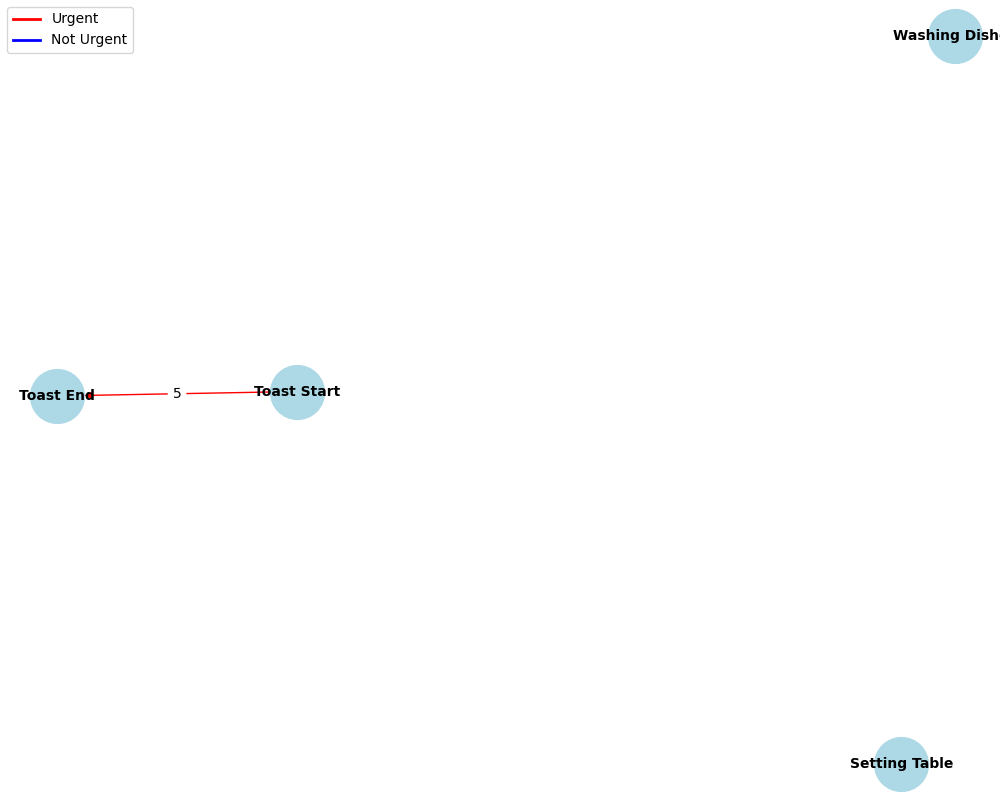
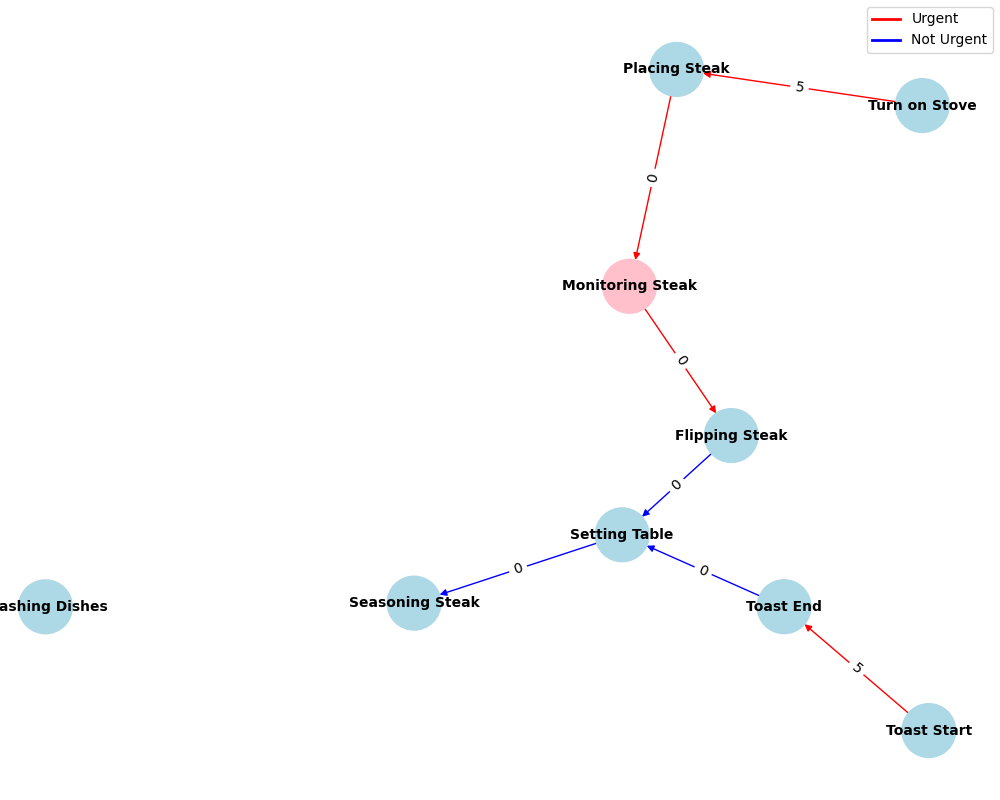
Random Tree 만들기 전 커밋

diff --git a/util/visualizer.py b/util/visualizer.py
@@ -11,7 +11,12 @@ def visualize_graph(G):
     pos = nx.spring_layout(G, k=0.5)  # k 값 조정
     plt.figure(figsize=(10, 8))  # fig 크기 조정
     edge_labels = {(u, v): f"{d['info']['Interval']}" for u, v, d in G.edges(data=True)}
-    node_colors = "lightblue"
+    color_map = {
+        "Monitoring": "pink",
+        "Interaction": "lightblue",
+        "Type C": "green",
+    }
+    node_colors = [color_map[G.nodes[node]["subtask_type"]] for node in G.nodes]
     edge_colors = [
         "red" if data["info"]["Urgency"] else "blue"
         for _, _, data in G.edges(data=True)

diff --git a/concept/task.py b/concept/task.py
@@ -78,7 +78,8 @@ def parse_constraints(data: List[Dict]) -> nx.DiGraph:
     for task in data:
         for subtask in task["Subtasks"]:
             subtask_node = subtask["Subtask"]
-            G.add_node(subtask_node)
+            subtask_type = subtask["Type"]
+            G.add_node(subtask_node, subtask_type=subtask_type)
 
     # Add edges based on temporal constraints
     for task in data:
